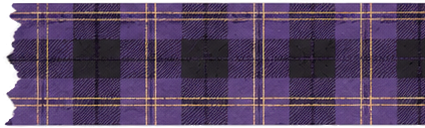
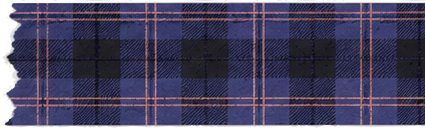
Image update, margins fix, mobile hides

diff --git a/public/styles.css b/public/styles.css
@@ -389,6 +389,7 @@ button {
 
 /* ===== 8. Shared Note Styles ===== */
 .sortable-wrapper {
+	margin-top: 20px;
 	position: relative;
 	display: block;
 	width: 100%;
@@ -403,7 +404,7 @@ button {
 	display: block;
 	width: 100%;
 	min-height: 0;
-	margin-bottom: 0;
+	/* margin-bottom: 14px; */
 	padding: 1.5rem;
 	border: 1px solid var(--border);
 	border-radius: 24px;
@@ -453,6 +454,10 @@ button {
 	outline: none;
 }
 
+.todo-title {
+	margin-top: 10px;
+}
+
 .memo p,
 .memo li,
 .memo-content,
@@ -480,10 +485,8 @@ button {
 .reminder-corner {
 	position: absolute;
 	display: block;
-	/* max-width: min(42%, 150px);
-	max-height: min(42%, 150px); */
 	object-fit: contain;
-	opacity: 0.6;
+	opacity: 0.3;
 	pointer-events: none;
 }
 
@@ -514,7 +517,7 @@ button {
 
 /* ===== 9. Memo Notes ===== */
 .memo-pad {
-	margin-top: 10px;
+	margin-top: 20px;
 	border-radius: 18px 22px 17px 24px;
 	background:
 		linear-gradient(
@@ -536,7 +539,7 @@ button {
 	position: absolute;
 	top: -15px;
 	left: 50%;
-	width: 100px;
+	width: 200px;
 	height: 32px;
 	border-radius: 6px;
 	background-image: var(--tape-image);
@@ -561,16 +564,22 @@ button {
 /* ===== 10. Todo Notes ===== */
 .todo-note {
 	min-height: 200px;
-	margin-top: 4px;
+	margin-top: 14px;
+	/* margin-bottom: 16px; */
 	padding-top: 38px;
 	border-color: transparent;
 	border-radius: 8px;
-	background-color: var(--todo_bg);
-	background-image: url("/images/todobg.png");
-	background-position: top center;
+	background-color: transparent;
+	background-image:
+		url("/images/todobg.png"), linear-gradient(var(--todo_bg), var(--todo_bg));
+	background-position:
+		top center,
+		left 80px;
 	background-repeat: no-repeat;
-	background-size: 100% auto;
-	box-shadow: var(--note-shadow);
+	background-size:
+		100% auto,
+		100% calc(100% - 30px);
+	box-shadow: 0 12px 24px rgba(114, 83, 155, 0.12);
 }
 
 .todo-note::before,
@@ -600,7 +609,7 @@ button {
 
 .todo-edit {
 	width: 100%;
-	margin: 0;
+	margin: 0px;
 	padding: 0;
 	border: none;
 	background: transparent;
@@ -650,10 +659,11 @@ button {
 /* ===== 11. Reminder Notes ===== */
 .reminder-card {
 	margin-top: 32px;
+	/* margin-bottom: 18px; */
 	padding-top: 40px;
 	border-radius: 18px 22px 17px 24px;
 	background: var(--reminder_bg);
-	overflow: hidden;
+	overflow: visible;
 }
 
 .reminder-card::before {
@@ -671,8 +681,7 @@ button {
 
 /* ===== 12. Idea Notes ===== */
 .idea-card {
-	/* margin-top: 30px;
-	margin-bottom: 20px; */
+	margin-top: 14px;
 	padding-top: 24px;
 	border-radius: 18px 22px 17px 24px;
 	background-color: var(--idea_bg);
@@ -690,7 +699,7 @@ button {
 	left: 0;
 	z-index: 100;
 	width: 100%;
-	height: 22px;
+	height: 40px;
 	border: 0;
 	background: transparent;
 	cursor: grab;
@@ -876,7 +885,7 @@ footer p {
 	--highlight: #7965c9;
 	--note_title: #e8d3ff;
 	--memo_bg: #211832;
-	--todo_bg: #171d38;
+	--todo_bg: #1b1e41;
 	--reminder_bg: #2a1d3d;
 	--idea_bg: #17213f;
 	--footer: #0f1430;
@@ -966,14 +975,14 @@ footer p {
 
 .dark-theme .memo-pad::before {
 	background-image: var(--dark-tape-image);
-	filter: hue-rotate(48deg) saturate(1.24) brightness(0.78)
-		drop-shadow(0 5px 8px rgba(0, 0, 0, 0.28));
+	/* filter: hue-rotate(48deg) saturate(1.24) brightness(0.78)
+		drop-shadow(0 5px 8px rgba(0, 0, 0, 0.28)); */
 	opacity: 0.92;
 }
 
 .dark-theme .memo-pad::after {
 	background:
-		url("/images/faint-stars.png") right 14px top 12px / 42px auto no-repeat,
+		url("/images/sparkle.png") right 64px top 12px / 42px auto no-repeat,
 		linear-gradient(135deg, rgba(219, 207, 255, 0.15), transparent 34%);
 	mix-blend-mode: screen;
 	opacity: 0.45;
@@ -982,17 +991,18 @@ footer p {
 .dark-theme .todo-note {
 	border-color: transparent;
 	border-radius: 4px;
-	background-color: var(--todo_bg);
+	background-color: transparent;
 	background-image:
-		linear-gradient(rgba(12, 16, 38, 0.18), rgba(12, 16, 38, 0.18)),
-		url("/images/todobg-dark.png");
+		url("/images/todobg-dark.png"),
+		linear-gradient(var(--todo_bg), var(--todo_bg));
 	background-position:
 		top center,
-		top center;
+		left 30px;
 	background-repeat: no-repeat;
 	background-size:
 		100% auto,
-		100% auto;
+		100% calc(100% - 30px);
+	box-shadow: 0 16px 34px rgba(0, 0, 0, 0.36);
 	color: var(--text);
 }
 
@@ -1172,6 +1182,13 @@ footer p {
 @media (max-width: 620px) {
 	.sidebar {
 		grid-template-columns: repeat(2, minmax(0, 1fr));
+	}
+
+	.filter-nav {
+		display: none;
+	}
+	.sidebar img {
+		display: none;
 	}
 
 	.header {

diff --git a/src/components/NotesGrid.jsx b/src/components/NotesGrid.jsx
@@ -21,9 +21,12 @@ function NotesGrid({ children }) {
 
 			if (!rowHeight || !note) return;
 
-			const rowSpan = Math.ceil(
-				(note.getBoundingClientRect().height + rowGap) / (rowHeight + rowGap),
-			);
+			const noteStyle = window.getComputedStyle(note);
+			const noteHeight =
+				note.getBoundingClientRect().height +
+				parseFloat(noteStyle.marginTop) +
+				parseFloat(noteStyle.marginBottom);
+			const rowSpan = Math.ceil((noteHeight + rowGap) / (rowHeight + rowGap));
 
 			item.style.gridRowEnd = `span ${rowSpan}`;
 		};
